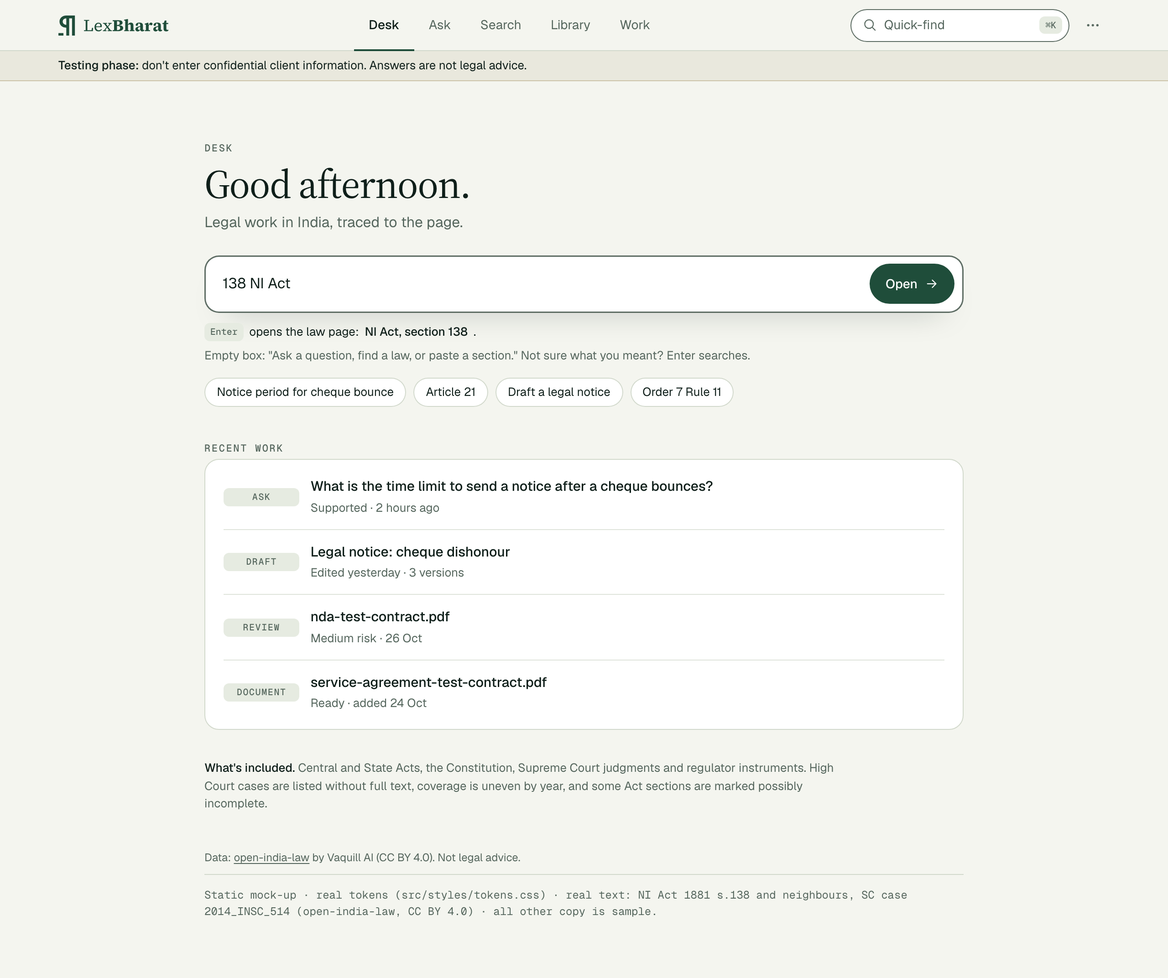
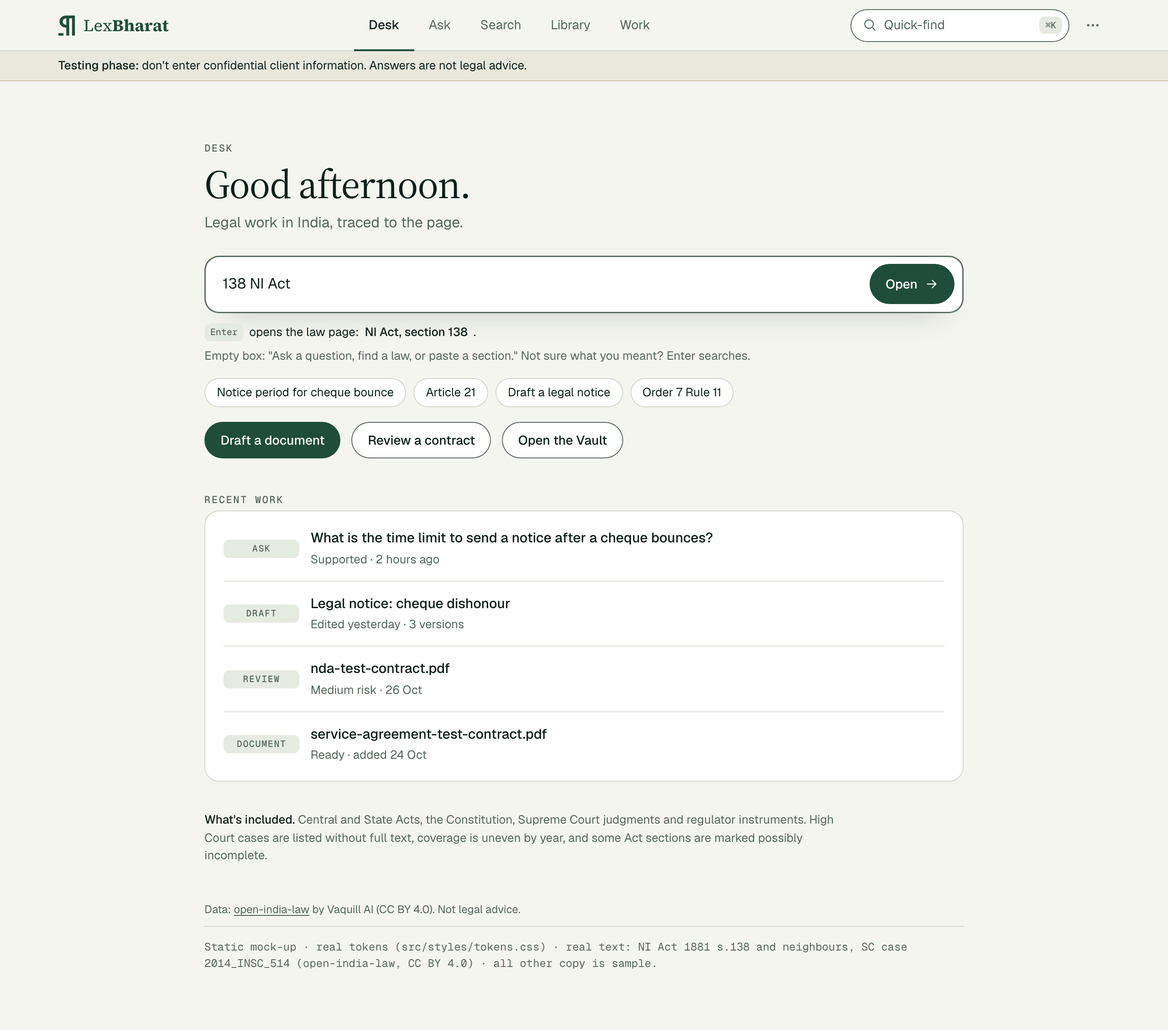
Work tab is Vault (Drafts · Reviews · Vault), three shortcut buttons on Desk, Quick-find 'Go to' for vault, review and draft; CrPC Central-copy gaps documented (86 sections incl. s.482, no data changed); 'Old law ↔ new law' added to the plan as a later item

diff --git a/src/components/shell/useQuickFind.ts b/src/components/shell/useQuickFind.ts
@@ -3,14 +3,17 @@ import { useEffect, useMemo, useRef, useState } from "react";
 import cfg from "@/config/quickfind.json";
 import { parseQuick, unitReadable, type QfConfig } from "@/lib/quickfind/rank.mjs";
 import { routes, SUPREME_COURT } from "@/lib/routes.mjs";
-import { MIN_CHARS, groupOrder, matchWork } from "@/lib/shell/quickfind.mjs";
+import workspace from "@/config/workspace.json";
+import { MIN_CHARS, groupOrder, matchShortcuts, matchWork } from "@/lib/shell/quickfind.mjs";
 
 // Quick-find's data. Laws: for a number ("138", "43A", "138 NI", "NI 138") the sections and Articles NUMBERED that, best-known first (/api/quickfind), then a separate group of sections that only MENTION it
 // (exact-word search); for words, the exact-word matches. Judgments: Supreme Court cases by party name or case number, never by a report page number. Your own chats, drafts, reviews and documents are matched in
 // the browser. Logic only; the dialog decides how it looks. Typing never calls Voyage: /api/acts/search is always asked for exact=1.
 export type QfItem = { id: string; title: string; sub?: string; href: string; kind: string };
-export type QfGroups = { laws: QfItem[]; mentions: QfItem[]; judgments: QfItem[]; work: QfItem[] };
-const EMPTY: QfGroups = { laws: [], mentions: [], judgments: [], work: [] };
+export type QfGroups = { go: QfItem[]; laws: QfItem[]; mentions: QfItem[]; judgments: QfItem[]; work: QfItem[] };
+const EMPTY: QfGroups = { go: [], laws: [], mentions: [], judgments: [], work: [] };
+const PAGE: Record<string, { href: string; sub: string }> = { drafts: { href: routes.drafts(), sub: "Your drafts, and a new draft" }, reviews: { href: routes.reviews(), sub: "Contract reviews, and a new one" }, vault: { href: routes.documents(), sub: "Your documents" } };
+const ON = Object.entries(workspace.features).filter(([, f]) => f.enabled).map(([k]) => k);   // the pages switched on in src/config/workspace.json
 type J = Record<string, unknown>;
 const list = async (url: string): Promise<J> => { try { const r = await fetch(url, { cache: "no-store" }); return r.ok ? await r.json() : {}; } catch { return {}; } };
 const rs = (x: unknown) => (Array.isArray(x) ? (x as J[]) : []);
@@ -52,6 +55,6 @@ export function useQuickFind(open: boolean, q: string) {
     }, 250);
     return () => { clearTimeout(t); ac.abort(); };
   }, [open, query, parsed.kind]);
-  const groups: QfGroups = useMemo(() => (query.length < MIN_CHARS ? EMPTY : { laws, mentions, judgments, work: matchWork(mine ?? [], query) as QfItem[] }), [query, laws, mentions, judgments, mine]);
+  const groups: QfGroups = useMemo(() => (query.length < MIN_CHARS ? EMPTY : { go: matchShortcuts(query, ON).map((x) => ({ id: `g${x.id}`, title: x.label, sub: PAGE[x.id].sub, href: PAGE[x.id].href, kind: "Page" })), laws, mentions, judgments, work: matchWork(mine ?? [], query) as QfItem[] }), [query, laws, mentions, judgments, mine]);
   return { groups, order: groupOrder(query, parsed.kind !== "text") as (keyof QfGroups)[], busy, ready: query.length >= MIN_CHARS, mentionsLabel: parsed.kind === "number" ? `Mentions ${parsed.number}` : "Mentions" };
 }

diff --git a/src/components/workspace/WorkspaceDashboard.tsx b/src/components/workspace/WorkspaceDashboard.tsx
@@ -1,7 +1,7 @@
 "use client";
 import Link from "next/link";
 import { useEffect, useState } from "react";
-import { Badge, Notice, Panel } from "@/components/kit";
+import { Badge, Button, Notice, Panel } from "@/components/kit";
 import workspace from "@/config/workspace.json";
 
 // The dashboard (/workspace): quick actions, this browser's recent chats, and an honest list of what works today. Presentation and one fetch; no search or chat logic here.
@@ -31,14 +31,15 @@ export default function WorkspaceDashboard() {
       <h1 className="mt-6 text-ui-title font-semibold">Welcome to LexBharat</h1>
       <p className="mt-2 text-ui-body text-secondary">Research Indian law in plain English, with a link to the section behind every answer.</p>
 
+      <nav aria-label="Shortcuts" className="mt-5 flex flex-wrap gap-2">
+        {(["drafting", "review", "vault"] as const).filter((k) => f[k].enabled).map((k) => <Button key={k} href={f[k].href} variant={k === "drafting" ? "primary" : "secondary"}>{f[k].action}</Button>)}
+      </nav>
+
       <section aria-labelledby="quick" className="mt-8">
         <h2 id="quick" className="text-ui-lead font-semibold">Start here</h2>
         <div className="mt-3 grid gap-3 sm:grid-cols-2">
           <Action href="/workspace/chat" title="Ask a legal question" text="Get an answer from Indian Acts, with numbered citations." />
           <Action href="/workspace/browse" title="Search Acts & Judgments" text="Look up an Act or a section, or browse Supreme Court and High Court cases." />
-          <Action href={f.drafting.enabled ? f.drafting.href : undefined} title={f.drafting.action} text="Prepare a first draft from a template, with the Acts it relies on." />
-          <Action href={f.review.enabled ? f.review.href : undefined} title={f.review.action} text="Check a contract against the law and flag problems." />
-          <Action href={f.vault.enabled ? f.vault.href : undefined} title={f.vault.action} text="Keep your own documents here and use them in chat and review." />
         </div>
       </section>
 

diff --git a/docs/mockups/work.html b/docs/mockups/work.html
@@ -10,7 +10,7 @@
 <div class="banner"><div class="wrap"><b>Testing phase:</b> don't enter confidential client information. Answers are not legal advice.</div></div>
 <main class="wrap">
   <h1 class="title">Work</h1><p class="lede">Everything you've made, saved on this browser only.</p>
-  <div class="tabs"><a href="#">Drafts <span class="n">2</span></a><a href="#">Reviews <span class="n">3</span></a><a href="#" aria-current="page">Documents <span class="n">2</span></a></div>
+  <div class="tabs"><a href="#">Drafts <span class="n">2</span></a><a href="#">Reviews <span class="n">3</span></a><a href="#" aria-current="page">Vault <span class="n">2</span></a></div>
   <div class="work-actions"><span class="btn primary">Add documents</span><div class="field" style="flex:1 1 12rem;max-width:18rem;height:40px;display:flex;align-items:center;gap:.5rem;color:var(--muted)"><svg class="i" viewBox="0 0 24 24" aria-hidden="true"><circle cx="11" cy="11" r="7"/><path d="M21 21l-4.3-4.3"/></svg> Search by name</div><span class="select">Newest first ▾</span><span class="small muted">2 of 30 documents · 0.0 of 100 MB used</span></div>
   <div class="notice good" style="margin-top:.9rem"><span><b style="font-weight:500">nda-test-contract.docx:</b> Ready. Ask a question about it or run a review. <u>Dismiss</u></span></div>
   <div class="card" style="margin-top:1rem;padding-block:.3rem"><div class="list">

diff --git a/docs/mockups/desk.html b/docs/mockups/desk.html
@@ -15,6 +15,7 @@
   <div class="bigbox" role="search"><span class="in typed">138 NI Act</span><a class="btn primary" href="law.html">Open <svg class="i" viewBox="0 0 24 24" aria-hidden="true"><path d="M5 12h14M13 6l6 6-6 6"/></svg></a></div>
   <p class="enter"><span class="kbd">Enter</span> opens the law page: <b>NI Act, section 138</b>. <span class="muted">Empty box: "Ask a question, find a law, or paste a section." Not sure what you meant? Enter searches.</span></p>
   <div class="chips" style="margin-top:.9rem"><a class="chip" href="ask.html">Notice period for cheque bounce</a><a class="chip" href="law.html">Article 21</a><a class="chip" href="work.html">Draft a legal notice</a><a class="chip" href="law.html">Order 7 Rule 11</a></div>
+  <div class="row" style="margin-top:1rem" role="group" aria-label="Shortcuts"><a class="btn primary" href="work.html">Draft a document</a><a class="btn secondary" href="work.html">Review a contract</a><a class="btn secondary" href="work.html">Open the Vault</a></div>
   <h2>Recent work</h2>
   <div class="list card" style="padding-block:.3rem">
     <a class="row" href="ask.html"><span class="lab type">Ask</span><span class="grow"><span class="name">What is the time limit to send a notice after a cheque bounces?</span><br><span class="sub">Supported · 2 hours ago</span></span></a>

diff --git a/src/components/shell/QuickFind.tsx b/src/components/shell/QuickFind.tsx
@@ -8,7 +8,7 @@ import { useQuickFind, type QfGroups, type QfItem } from "./useQuickFind";
 
 // Quick-find: one box for a law, a judgment, or your own work. Opens from the top bar (or ⌘K / Ctrl+K); on a phone it takes the whole screen. Up and Down move, Enter opens the highlighted result
 // (the first one to start with), Escape closes and returns focus to where it was. Presentation only; the searching is in useQuickFind.
-const LABEL: Record<keyof QfGroups, string> = { laws: "Laws", mentions: "Mentions", judgments: "Judgments", work: "Your work" };
+const LABEL: Record<keyof QfGroups, string> = { go: "Go to", laws: "Laws", mentions: "Mentions", judgments: "Judgments", work: "Your work" };
 
 export default function QuickFind() {
   const [open, setOpen] = useState(false), [q, setQ] = useState(""), [active, setActive] = useState(0), router = useRouter(), uid = useId();

diff --git a/src/components/shell/WorkTabs.tsx b/src/components/shell/WorkTabs.tsx
@@ -4,7 +4,7 @@ import { Tabs } from "@/components/kit";
 import { WORK_TABS, areaOf, workTabOf } from "@/lib/shell/areas.mjs";
 import workspace from "@/config/workspace.json";
 
-// Under the page title in Work: Drafts, Reviews, Documents. A tab for a feature switched off in src/config/workspace.json is left out. Renders nothing outside Work.
+// Under the page title in Work: Drafts, Reviews, Vault. A tab for a feature switched off in src/config/workspace.json is left out. Renders nothing outside Work.
 export default function WorkTabs() {
   const pathname = usePathname();
   if (areaOf(pathname) !== "work") return null;

diff --git a/docs/RESKIN-IA-PLAN.md b/docs/RESKIN-IA-PLAN.md
@@ -18,6 +18,7 @@ Scope you set: `reskin` branch only; no backend logic changes (search, Ask, Draf
 | 8 | One plain dataset credit line for Vaquill AI (CC BY 4.0) | In every page footer (mock-ups updated; `PublicFrame` has it now) |
 | 9 | Remove the copied marketing and extra legal pages; fold Cookies and data deletion into Privacy | Phase 1 removes the pages; Phase 7 writes the Cookies and deletion sections. **Feedback (answered 2026-10-28): a small in-app form (message + optional email), saved for /admin, no email sending.** Built in Phase 2 |
 | 10 | Mock-up fixes (a) to (e) | (a) L-shaped corner marks, now also in the real `.marked` rule and `tokens.css`; (b) phone sheet opens only from a chip; (c) "138." at the top of the marked section; (d) **NI Act ss.143 and 145 are not missing**: already filled from the India Code PDF (`docs/MISSING-SECTIONS.md`); (e) the s.138 typos are in India Code's own PDF too, so no official text differs (`docs/DATA-GAPS.md` section 2.6) |
+| 11 | Work tab renamed **Vault** (Drafts · Reviews · Vault); Desk gets three shortcut buttons (Draft a document, Review a contract, Open the vault); Quick-find has a "Go to" group for vault, review and draft | Built 2026-10-28 on the current pages. The spec's address `/work/documents` becomes **`/work/vault`** in Phase 6, with `/work/documents` redirecting to it (**please confirm**) |
 
 **Note on figures in the mock-ups:** the Law page shows "141 sections" and "3 possibly incomplete" from the raw text files. The running app counts differently (for the NI Act: 116 sections, 1 possibly incomplete, 40 filled in from India Code). The real build uses the app's counts.
 
@@ -32,13 +33,13 @@ Done on `reskin`, not pushed: the mock console, copied docs, mock account pages,
 
 **Built:** the pilcrow logo (`src/lib/brand.ts`, generated from the design repo's geometry; `components/kit/Logo.tsx`) and a tab icon (`src/app/icon.svg`, generated from the token colours); the slim top bar (logo, Desk · Ask · Search · Library · Work, Quick-find, menu), the phone bottom tab bar (hides while scrolling down a law or judgment, returns on scroll up), Quick-find (⌘K / Ctrl+K; laws by exact words, Supreme Court cases by party name or citation, your chats, drafts, reviews and documents; Enter opens the first result; never uses the Voyage limit), the testing banner under the bar, a `Tabs` component and Work's tabs, the Feedback form, `src/lib/routes.mjs` (every address in one place). The old sidebar, `ConsoleShell`, `BrowseShell` and `WorkspaceNav` are deleted. New tokens (`--h-topbar`, `--h-tabbar`, `--w-app`, `--w-quickfind`, `--w-dialog`, `--pad-page`, `--logo-h*`) are in `tokens.css`.
 
-**Where each area points until its own page exists (pages keep their old addresses; Phases 3 to 6 change these in `src/lib/shell/areas.mjs`):** Desk `/workspace` (the old dashboard) · Ask `/workspace/chat` · Search `/workspace/browse?tab=acts` (the Acts search box) · Library `/workspace/browse` · Work `/workspace/drafting` with Drafts · Reviews · Documents tabs.
+**Where each area points until its own page exists (pages keep their old addresses; Phases 3 to 6 change these in `src/lib/shell/areas.mjs`):** Desk `/workspace` (the old dashboard) · Ask `/workspace/chat` · Search `/workspace/browse?tab=acts` (the Acts search box) · Library `/workspace/browse` · Work `/workspace/drafting` with Drafts · Reviews · Vault tabs.
 
 **Feedback.** A message and an optional email are saved to a new table, `public.feedback_messages`, and listed in `/admin/insights` under "Messages from the Feedback form". It is a new table in the same Supabase project, not a change to `public.feedback`: that table's checks and unique key assume one thumbs vote on one chat answer, draft or review, and the stats count it. At most 5 messages an hour per browser; the browser is stored as a hash; no IP address; no email is sent. **To switch it on, run `scripts/w8/w8b-feedback-messages.sql` once in the Supabase SQL editor.** Until then the form says so in plain words.
 
 **Departures from the spec (all four approved 2026-10-28):**
 1. **Phone menu.** The spec's phone top bar has only the logo and a search icon, which leaves Log out and Feedback unreachable on a phone. I added the same small menu button next to the search icon.
-2. **Work tabs sit above each page's own title** in Phase 2, because each page still draws its own heading. Phase 6 puts them under the title.
+2. **Work tabs (now **Drafts · Reviews · Vault**) sit above each page's own title** in Phase 2, because each page still draws its own heading. Phase 6 puts them under the title.
 3. **Search and Library both lead to the Acts and judgments browser** until Phase 5 gives Search its own page. Search is highlighted when you are on the Acts search tab; Library on everything else in the browser.
 4. **The testing banner is now one line under the top bar on every page.** The repeated "Testing phase" sentences inside pages were removed; the feature-specific warnings stay (drafts and reviews are for a lawyer to confirm, Vault is saved on this browser only).
 5. **Tab icon is an SVG only** (it scales to 32 and 16 px); extra PNG files would have needed more paths opened in the password gate. **Phase 8 adds a PNG apple-touch-icon** so iPhones show the logo on the home screen (it will need its path opened in the password gate, with a test).
@@ -78,7 +79,7 @@ Done on `reskin`, not pushed: the mock console, copied docs, mock account pages,
 | `/workspace/browse/judgments/<court>/<year>/<case>` | `/judgments/<court>/<year>/<case>` | **Keeps the year** (spec says `/judgments/<court>/<case>`; see section 6, item 1). High Court links keep `?p=<page>` |
 | `/workspace/drafting`, `/workspace/drafting/<id>` | `/work/drafts`, `/work/drafts/<id>` | |
 | `/workspace/review`, `/workspace/review/<id>` | `/work/reviews`, `/work/reviews/<id>` | Review keeps `?doc=<id>` (the Vault "Review" button) |
-| `/workspace/vault`, `/workspace/vault/<id>` | `/work/documents`, `/work/documents/<id>` | `<id>` is the Preview page. Spec only lists the list page; the Preview page needs a home too |
+| `/workspace/vault`, `/workspace/vault/<id>` | `/work/vault`, `/work/vault/<id>` | `<id>` is the Preview page. Spec only lists the list page; the Preview page needs a home too |
 | `/workspace/chat?doc=<id>` (the Vault "Ask about this" button) | `/ask?doc=<id>` | |
 | `/developer`, `/developer?tab=*` | `/` (Desk) | Mock Developer console removed |
 
@@ -112,7 +113,7 @@ Done on `reskin`, not pushed: the mock console, copied docs, mock account pages,
 /search?q=             Search (tabs, filters)      /law/<act>[/<section>]   Law page
 /work/drafts[/<id>]    Drafts                      /judgments/<court>/<year>/<case>
 /work/reviews[/<id>]   Reviews                     /privacy /terms /security   public
-/work/documents[/<id>] Documents (Vault)           /access                  password page
+/work/vault[/<id>]     Vault                     /access                  password page
 /admin                 Insights                    /api/*                   unchanged
 ```
 
@@ -131,7 +132,7 @@ All old addresses go in `next.config.mjs` `redirects()` (permanent, with the que
 | `/workspace/browse/judgments/:court/:year/:case` | `/judgments/:court/:year/:case` |
 | `/workspace/drafting`, `/workspace/drafting/:id` | `/work/drafts`, `/work/drafts/:id` |
 | `/workspace/review`, `/workspace/review/:id` | `/work/reviews`, `/work/reviews/:id` |
-| `/workspace/vault`, `/workspace/vault/:id` | `/work/documents`, `/work/documents/:id` |
+| `/workspace/vault`, `/workspace/vault/:id` | `/work/vault`, `/work/vault/:id` |
 | `/admin/insights` | `/admin` |
 | `/developer`, `/docs`, `/docs/:path*`, `/auth/:path*`, every page in 1.3 | `/` (`/auth/*` goes to `/access`) |
 
@@ -170,7 +171,7 @@ The full file list is in the appendix (section 8).
 | `app/(app)/library/...`, `components/library/*` | Library tabs, built from `BrowseLaws`, `CaseList` |
 | `app/(app)/law/[actId]/[[...section]]/page.tsx`, `components/law/BookLayout.tsx` | Law page (contents, text, margin notes) |
 | `app/(app)/judgments/[court]/[year]/[caseId]/page.tsx`, `components/judgment/*` | Judgment page (header, reader, margin) |
-| `app/(app)/work/...`, `components/work/*` | Work tabs (Drafts, Reviews, Documents) |
+| `app/(app)/work/...`, `components/work/*` | Work tabs (Drafts, Reviews, Vault) |
 | `app/(public)/privacy`, `terms`, `security` | Public pages with a minimal layout |
 | `app/admin/page.tsx` | Insights at `/admin` |
 | `components/kit/`: `Tabs`, `FilterSheet`, `MarginNotes`, `Label` (replaces `Badge` usage), `EmptyState`, `SegmentedToggle` | Shared parts (section 3) |
@@ -221,7 +222,7 @@ Every phase ends with the checks you set: backend diff empty (`git diff main -- 
 3. **Desk and new addresses.** `routes.ts`, new route tree, all redirects in 1.6, Desk at `/`, link strings updated.
 4. **Ask** as a reading desk (`/ask`, `/ask/<id>`): cited page on the right, bottom sheet on phone.
 5. **Library, Law page, Judgment page**, plus **Search** (tabs, filters; "Your documents" only if item 3 is approved).
-6. **Work**: Drafts, Reviews, Documents. The Vault card buttons (9806603) and the "Ready" hint come across unchanged.
+6. **Work**: Drafts, Reviews, Vault. The Vault card buttons (9806603) and the "Ready" hint come across unchanged.
 7. **Public pages**: Privacy, Terms, Security written truthfully (testing phase, not legal advice, Neon / Supabase / Vercel / Gemini / Voyage, cookies, what is logged, that Gemini's free tier and Voyage may use submitted text), public without the password, linked from the footer and the password page.
 8. **Final checks**, a PNG apple-touch-icon (opened in the password gate with a test), then merge into `main` (you push), then point app.lexbharat.ai back to Production.
 
@@ -253,6 +254,21 @@ Testing banner (under the top bar), "not legal advice" notes, coverage and "poss
 - **A feature disappearing.** Phase checks include a pass of search, Ask (with a Vault document), Drafting (generate, edit, export), Review (run, export), Vault (upload, preview, rename, download, delete), judgment reader, feedback.
 - **Fixed bars on phones hiding content.** Tab bar and sheet are tested at 375 px with the keyboard open and on the longest reading pages.
 - **Voyage and Gemini limits.** No new model calls are added except as described in items 3 and 4.
+
+## 9. Later, not scheduled: "Old law ↔ new law" links
+
+*Added 2026-10-28 at your request. Not part of Phases 3 to 8; to be scheduled after you have seen the Law page (Phase 5).*
+
+**What it is.** On a section of a repealed Code, a link to its replacement, and the other way round: CrPC 482 shows "now BNSS 528"; IPC 302 shows "now BNS 103"; BNS 103 shows "replaces IPC 302"; the same for the Indian Evidence Act and the Bharatiya Sakshya Adhiniyam. It would appear on the Law page margin, under a Quick-find result, in search results, and next to a citation in Ask.
+
+**What it needs first.**
+1. **A mapping table**, section to section, with the relation stated honestly: same, reworded, split, merged, new, omitted. It cannot be guessed; it has to come from the Government's published comparison tables for the three new Codes. Check the terms of use, then load it as data (`src/config/old-new-law.json` or a table), reviewed by a lawyer before it is shown. Where there is no direct equivalent the link says so, not nothing.
+2. **The old Codes complete.** The Central CrPC is missing 86 sections including s.482 (see `docs/MISSING-SECTIONS.md`); a link from a section we do not hold would lead nowhere. The CrPC PDF fill comes first.
+3. **Repealed status shown clearly** (the Act page already marks IPC, CrPC and the Evidence Act as repealed).
+
+**How it would look.** One shared label component ("Now BNSS 528", "Replaces CrPC 482") in the existing label style, the same on every screen; no logic in the page. A short honest note: sections can be reworded, so read both; not legal advice. Tests: every mapped number exists in both Acts, no link points to a section we do not hold, and the example pairs (CrPC 482 → BNSS 528, IPC 302 → BNS 103) are checked.
+
+**Open questions for later:** whether to show it in Quick-find results or only on the Law page; and whether a lawyer-reviewed mapping for all ~1,200 sections is needed before launch or a partial list of the most-used sections is enough.
 
 ## 8. Appendix: files removable now (95)
 

diff --git a/docs/MISSING-SECTIONS.md b/docs/MISSING-SECTIONS.md
@@ -427,3 +427,24 @@ So the page's own sentence, "116 sections: 115 no problems detected, 1 possibly 
 
 No data was changed. If you want the unnumbered block or section 118 re-read against the PDF, that is a fill-in file per section (the process in `content/supplement/README.md`).
 
+## Code of Criminal Procedure, 1973: what the "Central" copy lacks (checked 2026-10-28; read-only, no data changed)
+
+**Why this matters.** Quick-find for "482" shows BNSS s.482 first and no Central CrPC s.482, and the Act page for the CrPC is short of sections. The cause is in the data, not the screens.
+
+**What we hold.** 18 entries for the CrPC (database `acts` table). Only **one is marked Central: `IND_state_6796`** (its id says "state"; category "central"; status "repealed", which is correct since 1 July 2024). The rest are copies filed under States: Chandigarh ×4, Chhattisgarh ×3, Tripura, Rajasthan ×2, Punjab, Maharashtra, Uttar Pradesh, Delhi, and three small amending texts. So, as already noted above ("no Central entry"), the Central CrPC is a State-filed copy that was re-labelled.
+
+**What the "Central" copy lacks.** It has 443 rows: 442 numbered sections and 1 block with no number. The Code has sections 1 to 484, so:
+
+| Count | What |
+|---:|---|
+| **86** | numbers between 1 and 484 that the Central copy does not have |
+| 81 | of these, text for the number exists in the two larger copies (Delhi 525 sections, Rajasthan 524 sections). Those are State versions (they may carry State amendments), so they are not a safe source for the Central text |
+| **5** | of these, no copy at all has them: **101, 352, 404, 423, 483** (they may be printed as "omitted" in the Act; the PDF will say) |
+| 3 | lettered sections seen in some copy but not in the Central one: **41C, 433A, 441A** (it has the other 44 lettered sections we can see anywhere) |
+
+**The 81 numbers whose text exists only in the Delhi and Rajasthan copies:** 21, 26, 27, 200, 203, 207, 214, 217, 223, 224, 225, 226, 229, 230, 232, 234, 270, 271, 272, 273, 277, 280, 282, 283, 289, 295, 298, 312, 318, 321, 334, 336, 337, 347, 348, 349, 355, 362, 364, 368, 369, 370, 371, 372, 376, 380, 382, 383, 386, 387, 392, 393, 398, 400, 403, 405, 411, 413, 414, 420, 425, 428, 431, 434, 445, 447, 448, 449, 450, 451, 453, 460, 461, 462, 472, 474, 478, 479, 480, 481, 482.
+
+**What this comparison cannot tell.** It measures the Central copy against section numbers 1 to 484 and against our other copies, not against the official printed list: the official PDF is not on disk. Lettered sections that no copy has (if the Act has any) would not show up here, and a number in the "5 in no copy" list may be a section the Act itself prints as omitted. Both are settled by the PDF.
+
+**To fix it (waiting for you; nothing changed yet).** Download the CrPC from India Code as `content/supplement/pdfs/crpc-1973.pdf` (it is row 2 of `docs/PDF-DOWNLOAD-LIST.md`, priority 1; take the "as on" / latest PDF, not the enacted version). Then, as for the NI Act: `scripts/supplement/list-sections.mjs` gives the official list of sections, the missing ones are compared against it, and a fill-in file per section is checked word by word against the PDF. Open decisions for then: whether to fill the missing sections into the existing copy (which stays filed under States) or to create a proper Central entry for the Code and leave the State copies alone.
+

diff --git a/docs/PDF-DOWNLOAD-LIST.md b/docs/PDF-DOWNLOAD-LIST.md
@@ -9,7 +9,7 @@
 | Pri | # | Exact title on India Code | Year (Act no.) | Date filter (enactment date) | Save as (`content/supplement/pdfs/`) | What it fills |
 |---:|---:|---|---|---|---|---|
 | 1 | 1 | The Bharatiya Nagarik Suraksha Sanhita, 2023 | 2023 (46) | 01-01-2023 to 31-12-2023 | `bnss-2023.pdf` | First Schedule (classification of offences), Second Schedule (forms); any sections still missing (6 confident gaps) |
-| 1 | 2 | The Code of Criminal Procedure, 1973 | 1974 (2) | 01-01-1974 to 31-12-1974 | `crpc-1973.pdf` | First Schedule (classification of offences), Second Schedule (forms); repealed from 1 July 2024 but cited in thousands of judgments |
+| 1 | 2 | The Code of Criminal Procedure, 1973 | 1974 (2) | 01-01-1974 to 31-12-1974 | `crpc-1973.pdf` | First Schedule (classification of offences), Second Schedule (forms); repealed from 1 July 2024 but cited in thousands of judgments. **Also: our "Central" copy lacks 86 of sections 1 to 484 (including s.482) and is filed under States; see `docs/MISSING-SECTIONS.md` (CrPC section, 2026-10-28). Download this one first.** |
 | 1 | 3 | The Bharatiya Nyaya Sanhita, 2023 | 2023 (45) | 01-01-2023 to 31-12-2023 | `bns-2023.pdf` | the 7 confident missing sections |
 | 1 | 4 | The Bharatiya Sakshya Adhiniyam, 2023 | 2023 (47) | 01-01-2023 to 31-12-2023 | `bsa-2023.pdf` | the 4 confident missing sections |
 | 1 | 5 | The Companies Act, 2013 | 2013 (18) | 01-01-2013 to 31-12-2013 | `companies-act-2013.pdf` | 60 missing sections (27 confident) and Schedules I to VII (Schedule III accounts, VII CSR) |
